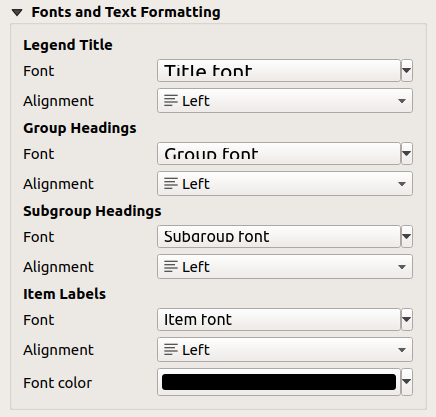
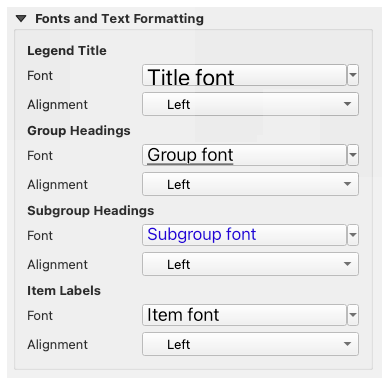
Update Layout legend font properties

diff --git a/docs/user_manual/print_composer/composer_items/composer_legend.rst b/docs/user_manual/print_composer/composer_items/composer_legend.rst
@@ -198,10 +198,10 @@ of a specific symbol, to enhance it in the legend or have a symbol independent f
 This custom symbol will override the legend symbol, but will take into account the symbol :guilabel:`Patch` specified. 
 
 
-Fonts
------
+Fonts and text formatting
+-------------------------
 
-The :guilabel:`Fonts` group of the legend :guilabel:`Item Properties` panel
+The :guilabel:`Fonts and text formatting` group of the legend :guilabel:`Item Properties` panel
 provides the following functionalities:
 
 .. _figure_layout_legend_fonts:
@@ -212,14 +212,12 @@ provides the following functionalities:
    Legend Fonts properties
 
 * You can change the font of the legend title, group, subgroup and item (feature)
-  in the legend item using the :ref:`font selector <font_selector>` widget
-* For each of these levels you can set the text :guilabel:`Alignment`: it can
-  be :guilabel:`Left` (default for left-to-right based locales),
-  :guilabel:`Center` or :guilabel:`Right` (default for right-to-left based
-  locales).
-* You set the :guilabel:`Color` of the labels using the :ref:`color selector
-  <color-selector>` widget. The selected color will apply to all the font items
-  in the legend.
+  in the legend item using the :ref:`font selector <font_selector>` widget,
+  providing all the capabilities of :ref:`text formatting <text_format>`
+  (font spacing control, mixed HTML formatting, coloring, blending, background, text buffer, shadow, ...)
+* For each of these levels you can set the text :guilabel:`Alignment`:
+  it can be :guilabel:`Left` (default for left-to-right based locales),
+  :guilabel:`Center` or :guilabel:`Right` (default for right-to-left based locales).
 
 
 Columns
